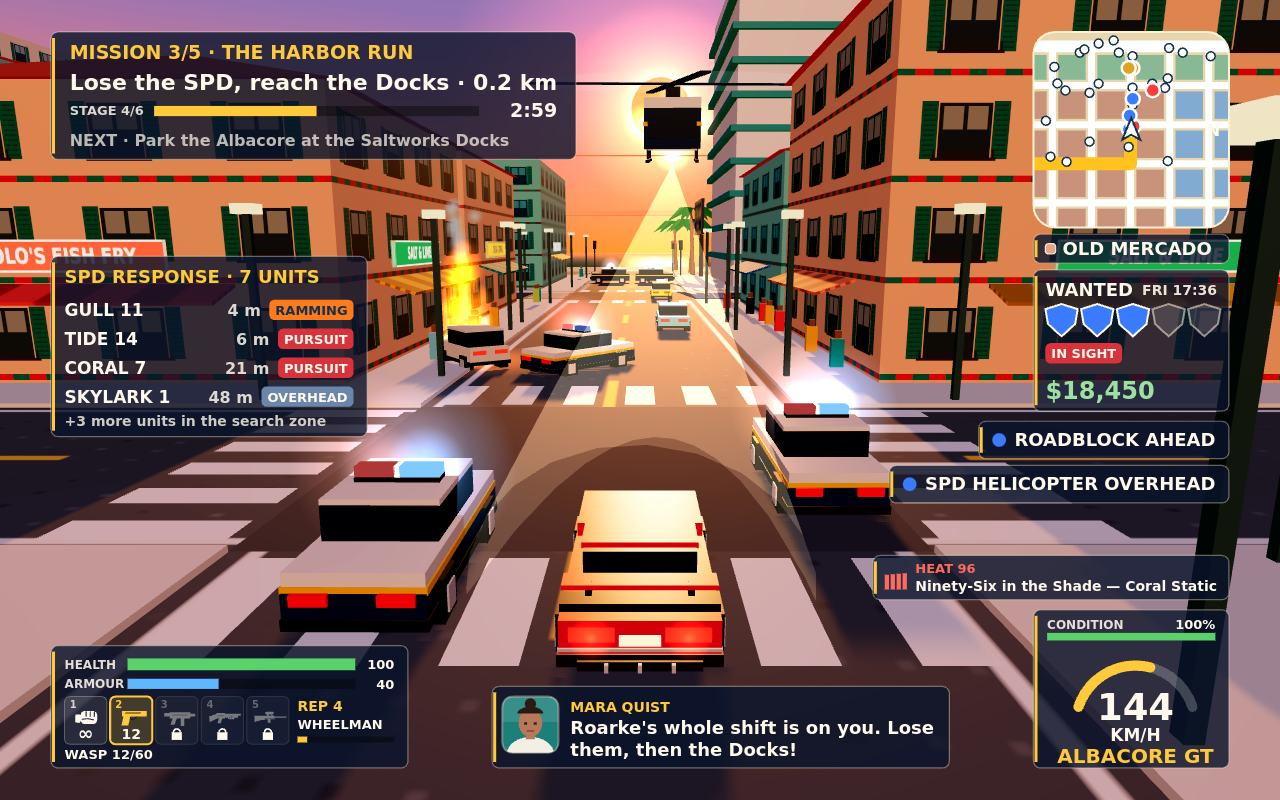
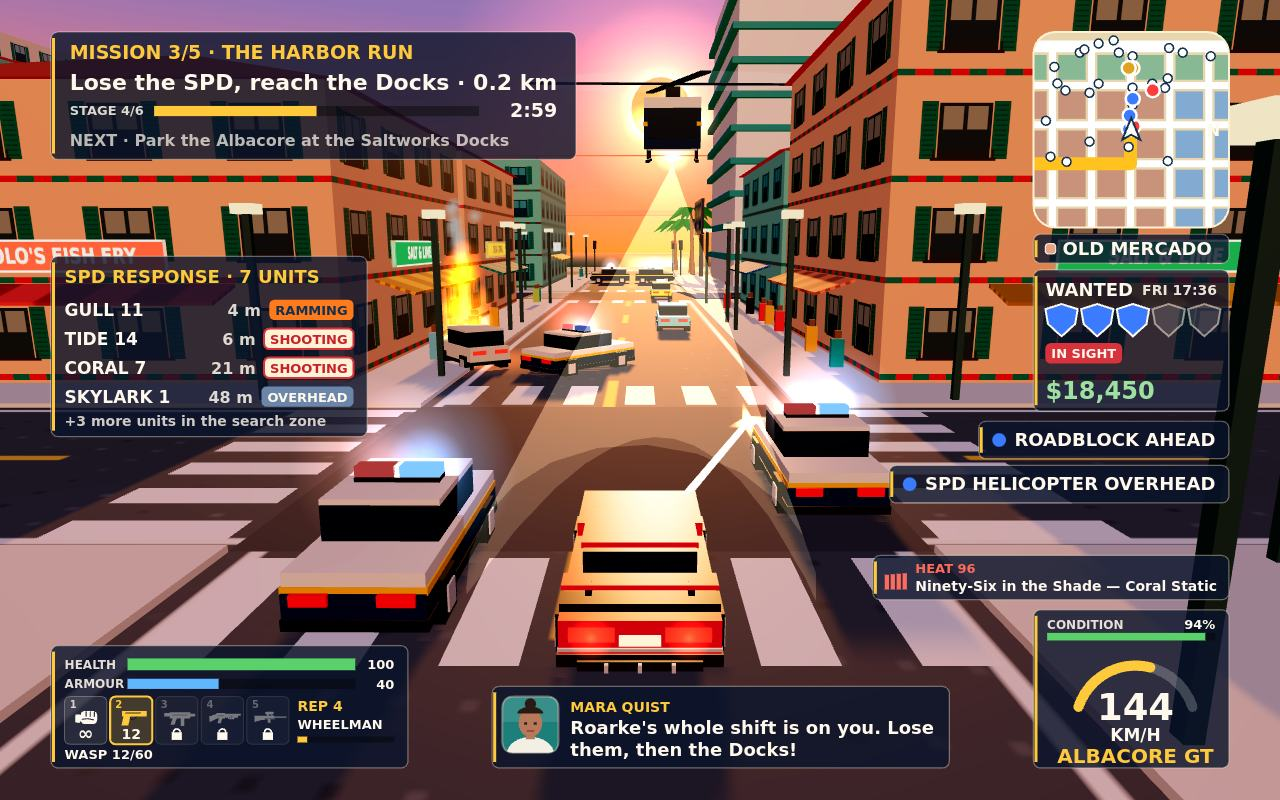
M20 step 2: SPD open fire from the cruisers (candidate A: OUT 0.35, POLICE_FLASH 1.0). A Beacon in PURSUIT at WANTED 3+ fires at Wren's car (> 8 m/s, < 30 m, clear line) every 0.6 s after its move: muzzle 0.7 m ahead, width/2 + 0.35 m on her side, y 1.3; aim (car, 0.8) +/- 0.012 per axis from a per-

diff --git a/game/src/police/police-ai.js b/game/src/police/police-ai.js
@@ -121,6 +121,7 @@ export function dispatchPoliceUnits(game, makeCar) {
     c.sync();
     u.model.visible = true;
     u.active = true; u.path = []; u.repathIn = 0; u.stuckFor = 0; u.reverseFor = 0; u.awayFor = 0;
+    u.fireIn = 0; u.shootingFor = 0; u.seed = (u.index + 1) * 0x9e37; // gunfire timers, aim seed
   }
 
   function deactivate(u) {
@@ -162,6 +163,7 @@ export function dispatchPoliceUnits(game, makeCar) {
     const c = u.car, p = game.focus, v = game.vehicle;
     const pvx = v ? v.vx : 0, pvz = v ? v.vz : 0, pSpeed = Math.hypot(pvx, pvz);
     u.dist = Math.hypot(p.x - c.x, p.z - c.z);
+    u.fireIn -= dt; u.shootingFor -= dt;
     u.bumpCooldown = Math.max(0, u.bumpCooldown - dt);
     if (c.health <= 0) { game.wantedLevel.commit('cruiserWrecked', c.x, c.z); police.toast(`${u.call} WRECKED`); deactivate(u); return; }
     if (u.state === 'ROADBLOCK') { c.update(dt, { throttle: 0, steer: 0, handbrake: true }, game.collide); return; }
@@ -210,6 +212,31 @@ export function dispatchPoliceUnits(game, makeCar) {
     else u.stuckFor = 0;
     c.update(dt, { throttle, steer, handbrake }, game.collide);
     contact(u, v);
+    // WANTED 3+: a Beacon in pursuit fires on Wren's moving car from inside 30 m (after the move).
+    if (u.kind === 'beacon' && u.state === 'PURSUIT' && pips >= 3 && v && Math.abs(v.speed) > 8 && u.dist < FIRE_RANGE &&
+      u.fireIn <= 0 && clearLine(game.collide, c.x, c.z, v.x, v.z)) openFire(u, v);
+  }
+
+  // A round from the door on Wren's side, through game.arms: it owns the flash, tracer and spark
+  // pools Wren and the crews share. Another car in the line holds it back.
+  function openFire(u, v) {
+    const c = u.car, f = c.forward, sx = Math.cos(c.heading), sz = -Math.sin(c.heading);
+    const out = (Math.sign((v.x - c.x) * sx + (v.z - c.z) * sz) || 1) * (c.spec.width / 2 + MUZZLE_OUT);
+    const m = { x: c.x + f.x * 0.7 + sx * out, y: 1.3, z: c.z + f.z * 0.7 + sz * out };
+    const d = Math.hypot(v.x - m.x, 0.5, v.z - m.z), dir = { x: (v.x - m.x) / d + jitter(u), y: -0.5 / d + jitter(u), z: (v.z - m.z) / d + jitter(u) };
+    const n = Math.hypot(dir.x, dir.y, dir.z);
+    dir.x /= n; dir.y /= n; dir.z /= n;
+    u.fireIn = FIRE_EVERY;
+    const hit = game.arms?.policeRound(m, dir, d + 4, c);
+    if (!hit || hit.held) return;
+    u.shootingFor = SHOOTING_FOR;
+    // Rounds alone can make the car smoke, never burn: no damage under 30.
+    if (hit.what === v) v.health = Math.max(Math.min(v.health, 30), v.health - 2);
+  }
+
+  function jitter(u) {
+    u.seed = (u.seed * 1664525 + 1013904223) >>> 0;
+    return (u.seed / 4294967296 - 0.5) * 0.024;
   }
 
   // Lane-graph A* from the unit's crossing to the goal's, re-planned once a second.
@@ -340,6 +367,8 @@ export const HELI_SCALE = 2;
 // Searchlight radius on the ground: small enough that the low chase camera stays outside the cone.
 export const SPOT_RADIUS = 2.6;
 export const ARREST_RANGE = 6, CUSTODY_SECONDS = 2.5, CUSTODY_CARD = 4.2, BAIL = 400;
+// Beacon gunfire: range, cadence, SHOOTING tag seconds, muzzle out from the door.
+const FIRE_RANGE = 30, FIRE_EVERY = 0.6, SHOOTING_FOR = 1.2, MUZZLE_OUT = 0.35;
 // Where the SPD books Wren: sidewalk spots beside two posts (the nearest one is used).
 export const SPD_POSTS = [
   { name: 'SPD PALMLINE POST', x: -168.6, z: 13, facing: 0 },

diff --git a/game/src/ui/hud.js b/game/src/ui/hud.js
@@ -72,9 +72,11 @@ export function drawHud(ctx, game, drawMinimap) {
       const ry = py + (48 + i * 34) * s;
       ctx.fillStyle = WHITE; ctx.font = font(20 * s);
       ctx.fillText(u.call, px + 16 * s, ry + 22 * s);
-      const [bg, fg] = STATE_COLORS[u.state] || STATE_COLORS.RESPONDING;
+      // A cruiser that fired in the last 1.2 s reads SHOOTING in place of PURSUIT.
+      const tag = u.state === 'PURSUIT' && u.shootingFor > 0 ? 'SHOOTING' : u.state;
+      const [bg, fg] = STATE_COLORS[tag] || STATE_COLORS.RESPONDING;
       ctx.font = font(15 * s);
-      const tw = ctx.measureText(u.state).width + 14 * s;
+      const tw = ctx.measureText(tag).width + 14 * s;
       // The distance sits right against the state tag, so a long tag never covers it.
       ctx.font = font(19 * s, 700); ctx.fillStyle = 'rgba(255,248,236,0.85)';
       ctx.textAlign = 'right';
@@ -83,7 +85,8 @@ export function drawHud(ctx, game, drawMinimap) {
       ctx.font = font(15 * s);
       ctx.fillStyle = bg;
       ctx.beginPath(); ctx.roundRect(px + pw - 16 * s - tw, ry + 3 * s, tw, 24 * s, 6 * s); ctx.fill();
-      ctx.fillStyle = fg; ctx.fillText(u.state, px + pw - 9 * s - tw, ry + 21 * s);
+      if (tag === 'SHOOTING') { ctx.strokeStyle = SHOOTING_RIM; ctx.lineWidth = 2; ctx.stroke(); }
+      ctx.fillStyle = fg; ctx.fillText(tag, px + pw - 9 * s - tw, ry + 21 * s);
     });
     if (more > 0) {
       ctx.fillStyle = 'rgba(255,248,236,0.8)'; ctx.font = font(17 * s, 700);
@@ -260,7 +263,9 @@ export const DISPATCH_ROWS = 4;
 export const STATE_COLORS = {
   PURSUIT: ['#d8323c', '#fff8ec'], RAMMING: ['#ff7a1a', '#14304f'], ROADBLOCK: ['#e0a21f', '#14304f'],
   SEARCHING: ['#3b7bff', '#fff8ec'], RESPONDING: ['#6b86a8', '#fff8ec'], LEAVING: ['#4a5566', '#fff8ec'],
+  SHOOTING: ['#fff3d6', '#c8202c'],
 };
+const SHOOTING_RIM = '#d8323c'; // the SHOOTING tag's 2 px alarm-red rim
 export const GOLD = '#ffc93c';
 export const WHITE = '#fff8ec';
 export const NAVY_GLASS = 'rgba(10, 20, 44, 0.8)';

diff --git a/game/src/combat/weapons-and-damage.js b/game/src/combat/weapons-and-damage.js
@@ -6,7 +6,7 @@ import { countWitnesses } from '../police/wanted-level.js';
 // Returns { x, y, z, kind: 'target' | 'car' | 'wall' | 'ground' | 'air', what, dist }.
 export function fireWeapon(game, from, dir, range, ignore = null) {
   const targets = (game.combatTargets || []).filter((t) => t.alive && t !== ignore && Math.hypot(t.x - from.x, t.z - from.z) < range + 3);
-  const cars = allCars(game).filter((c) => c.model.visible && Math.hypot(c.x - from.x, c.z - from.z) < range + 4);
+  const cars = allCars(game).filter((c) => c !== ignore && c.model.visible && Math.hypot(c.x - from.x, c.z - from.z) < range + 4);
   const p = { x: 0, y: 0, z: 0 };
   for (let s = 0.6; s <= range; s += RAY_STEP) {
     p.x = from.x + dir.x * s; p.y = from.y + dir.y * s; p.z = from.z + dir.z * s;
@@ -172,6 +172,15 @@ export class PlayerWeapons {
   // A shot effect for anyone (the enemy crews share Wren's flash, tracer and spark pools).
   showEffect(muzzle, hit, smg) { showShot(this.fx, muzzle, hit, smg ? CREW_SMG_FLASH : CREW_FLASH); }
 
+  // An SPD round from a cruiser (its own car never stops it). A car other than Wren's in the line
+  // holds the round: no flash or tracer, and the hit comes back marked `held`.
+  policeRound(muzzle, dir, range, car) {
+    const hit = fireWeapon(this.game, muzzle, dir, range, car);
+    if (hit.kind === 'car' && hit.what !== this.game.vehicle) return { ...hit, held: true };
+    showShot(this.fx, muzzle, hit, POLICE_FLASH);
+    return hit;
+  }
+
   rand() { this.seed = (this.seed * 1664525 + 1013904223) >>> 0; return this.seed / 4294967296; }
 }
 
@@ -184,6 +193,7 @@ function allCars(game) {
 
 const RAY_STEP = 0.4, TRACERS = 6, SPARKS = 48, FLASHES = 4, FLASH_LIFE = 0.06, FLASH_RGB = 0xfffbe8;
 const TRACER_W = 0.1, TRACER_LIFE = 0.12, TRACER_RGB = 0xfff0c8, CREW_FLASH = 1.2, CREW_SMG_FLASH = 1.0;
+const POLICE_FLASH = 1.0;
 
 function buildShotEffects(scene) {
   const add = { transparent: true, depthWrite: false, blending: THREE.AdditiveBlending };
